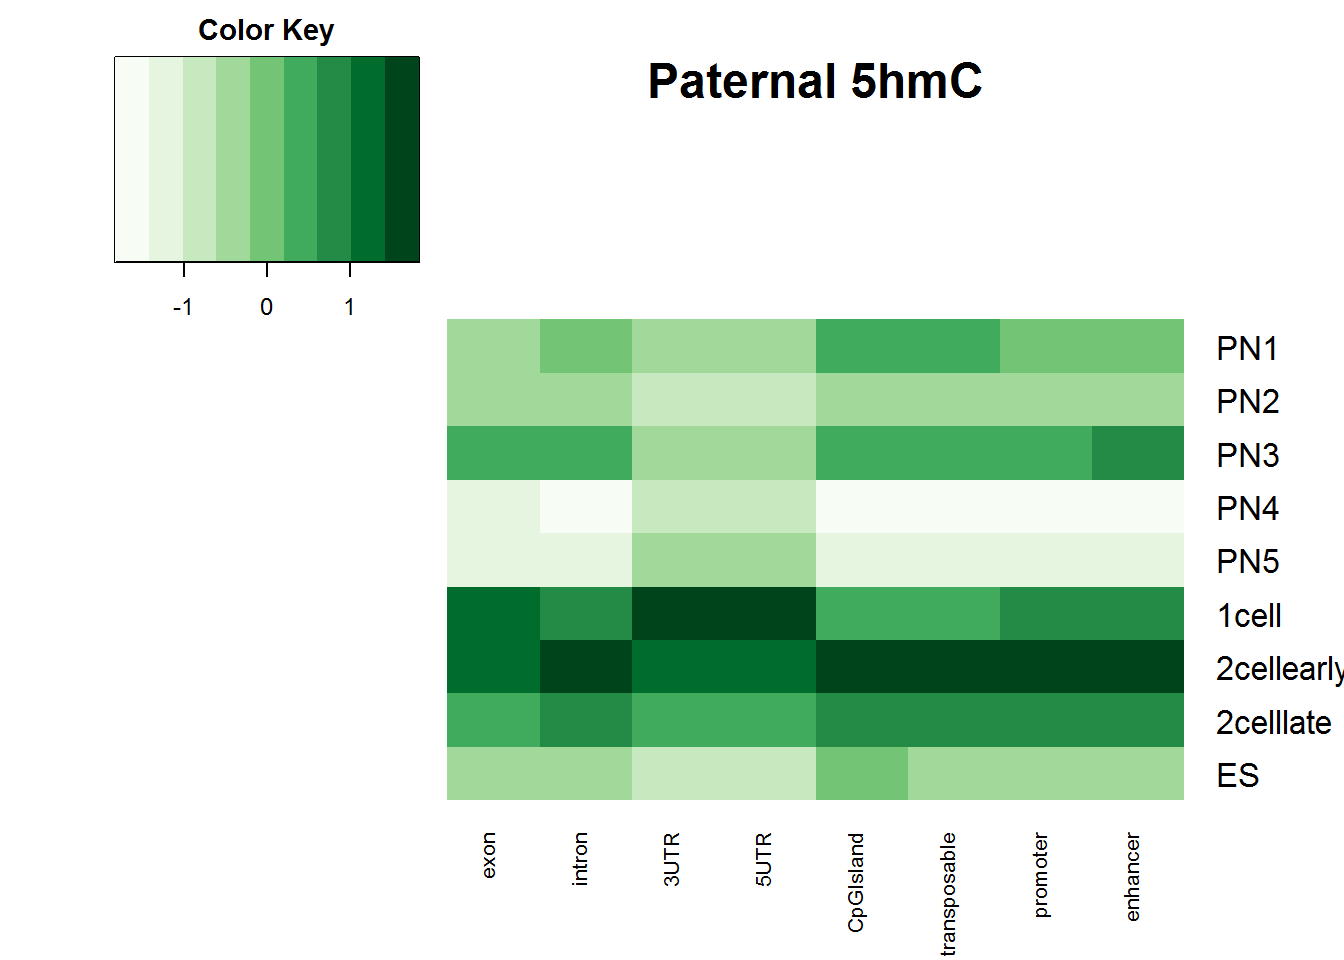
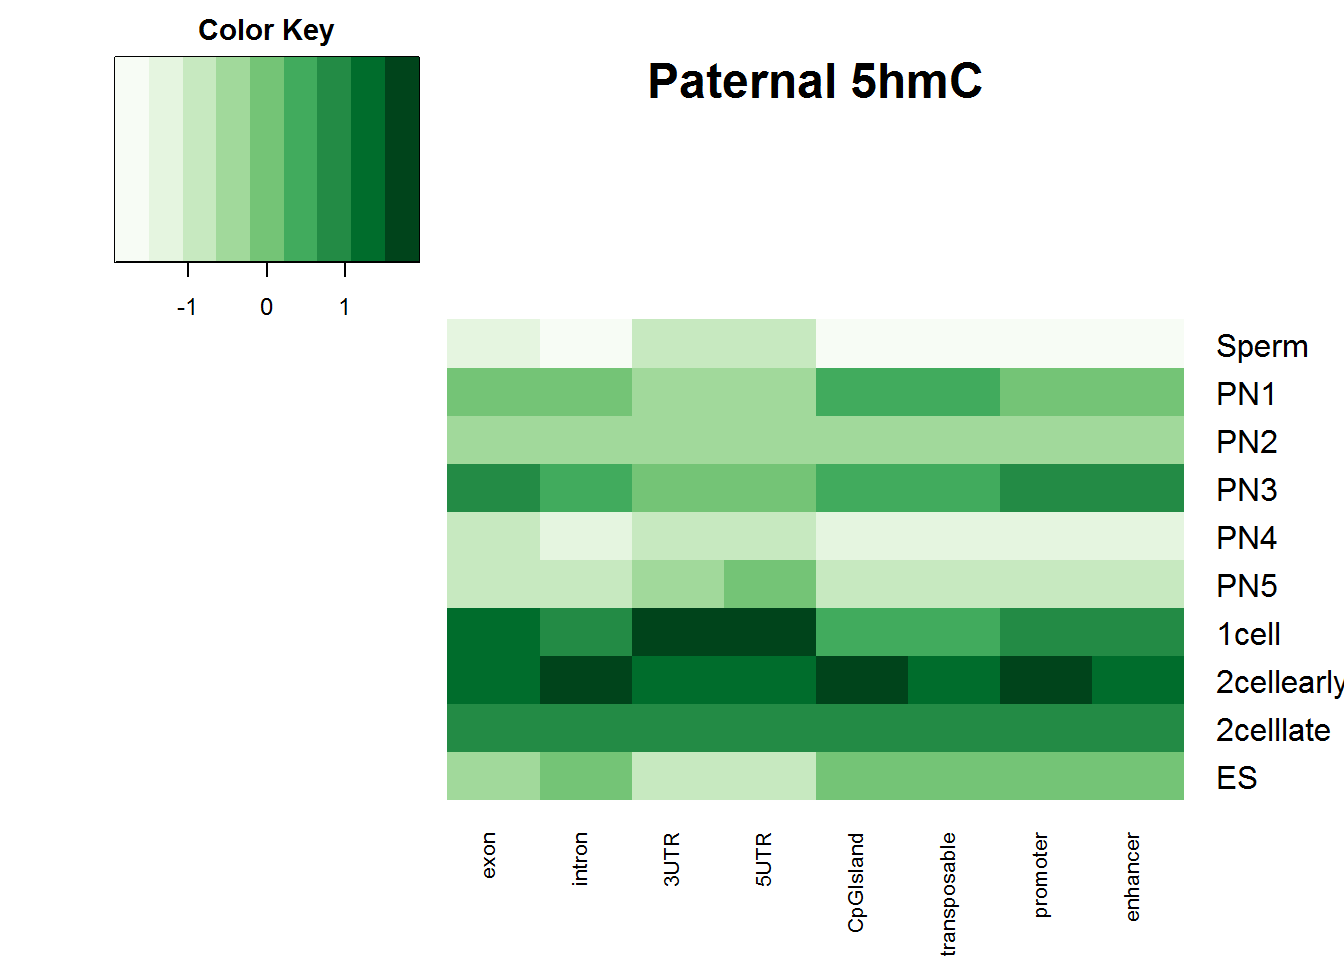
May22018

Changed region(s): [[0.3125, 0.3125, 1.0, 0.8438]]

diff --git a/docs/Sample-with-spikein.html b/docs/Sample-with-spikein.html
@@ -317,7 +317,7 @@ shared across the workflowr files. -->
 <p><strong>Last updated:</strong> 2018-05-02</p>
 <!-- Insert the code version (Git commit SHA1) if Git repository exists and R
  package git2r is installed -->
-<p><strong>Code version:</strong> 41a8cb6</p>
+<p><strong>Code version:</strong> ec4b677</p>
 <!-- Add your analysis here -->
 <p>All analysiz have been adjusted with spike in sample.</p>
 <div id="rep1-20180113" class="section level2">
